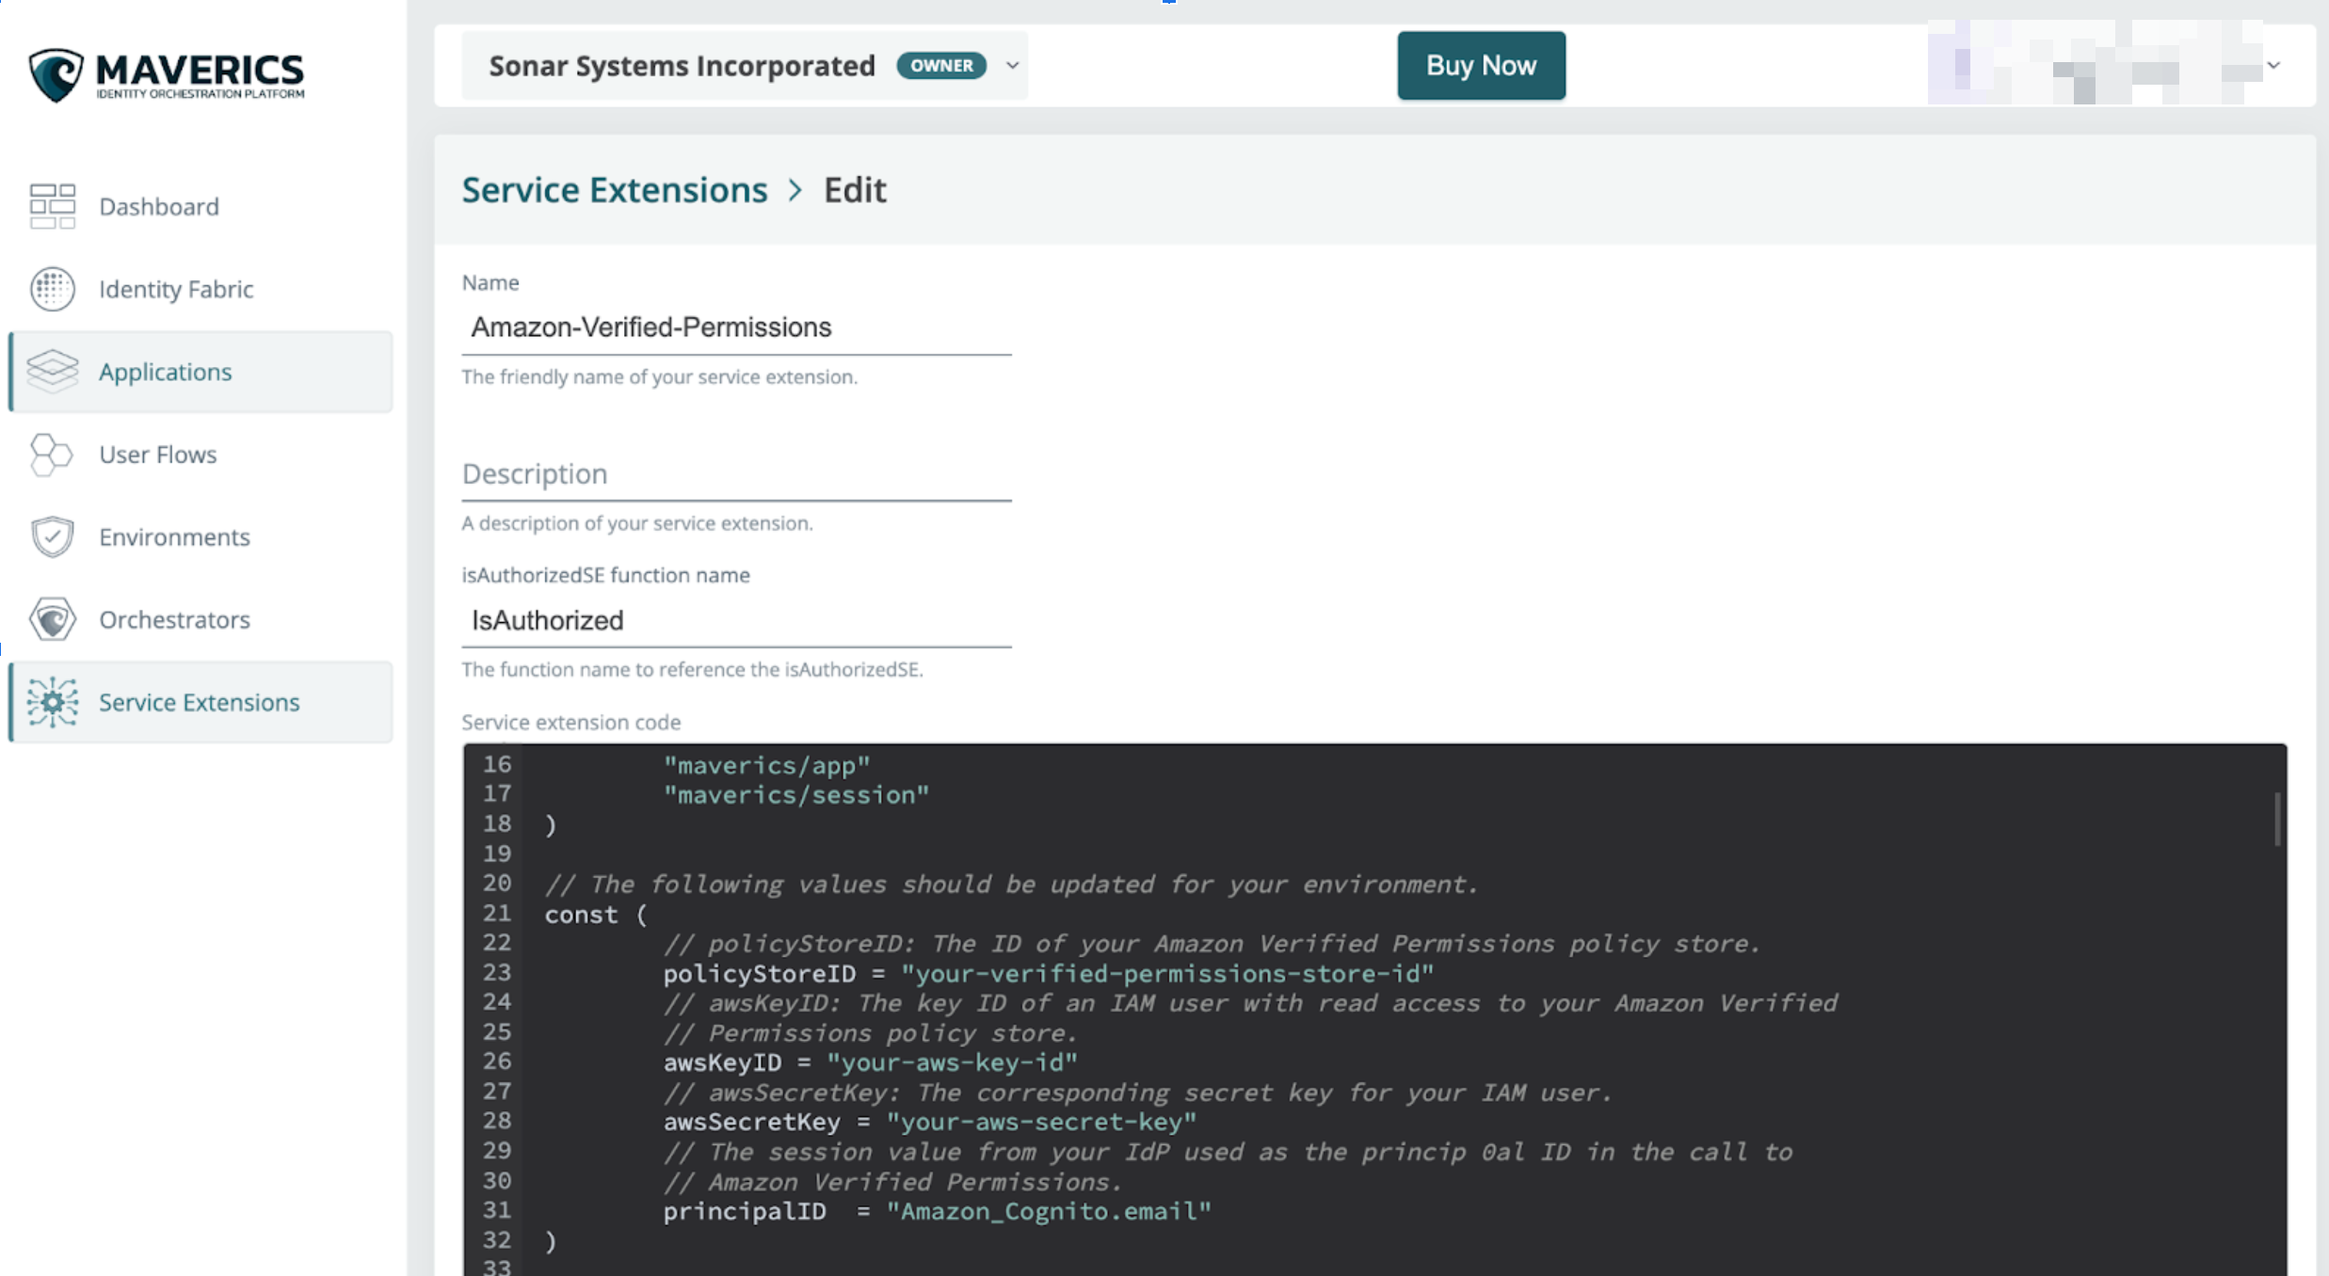
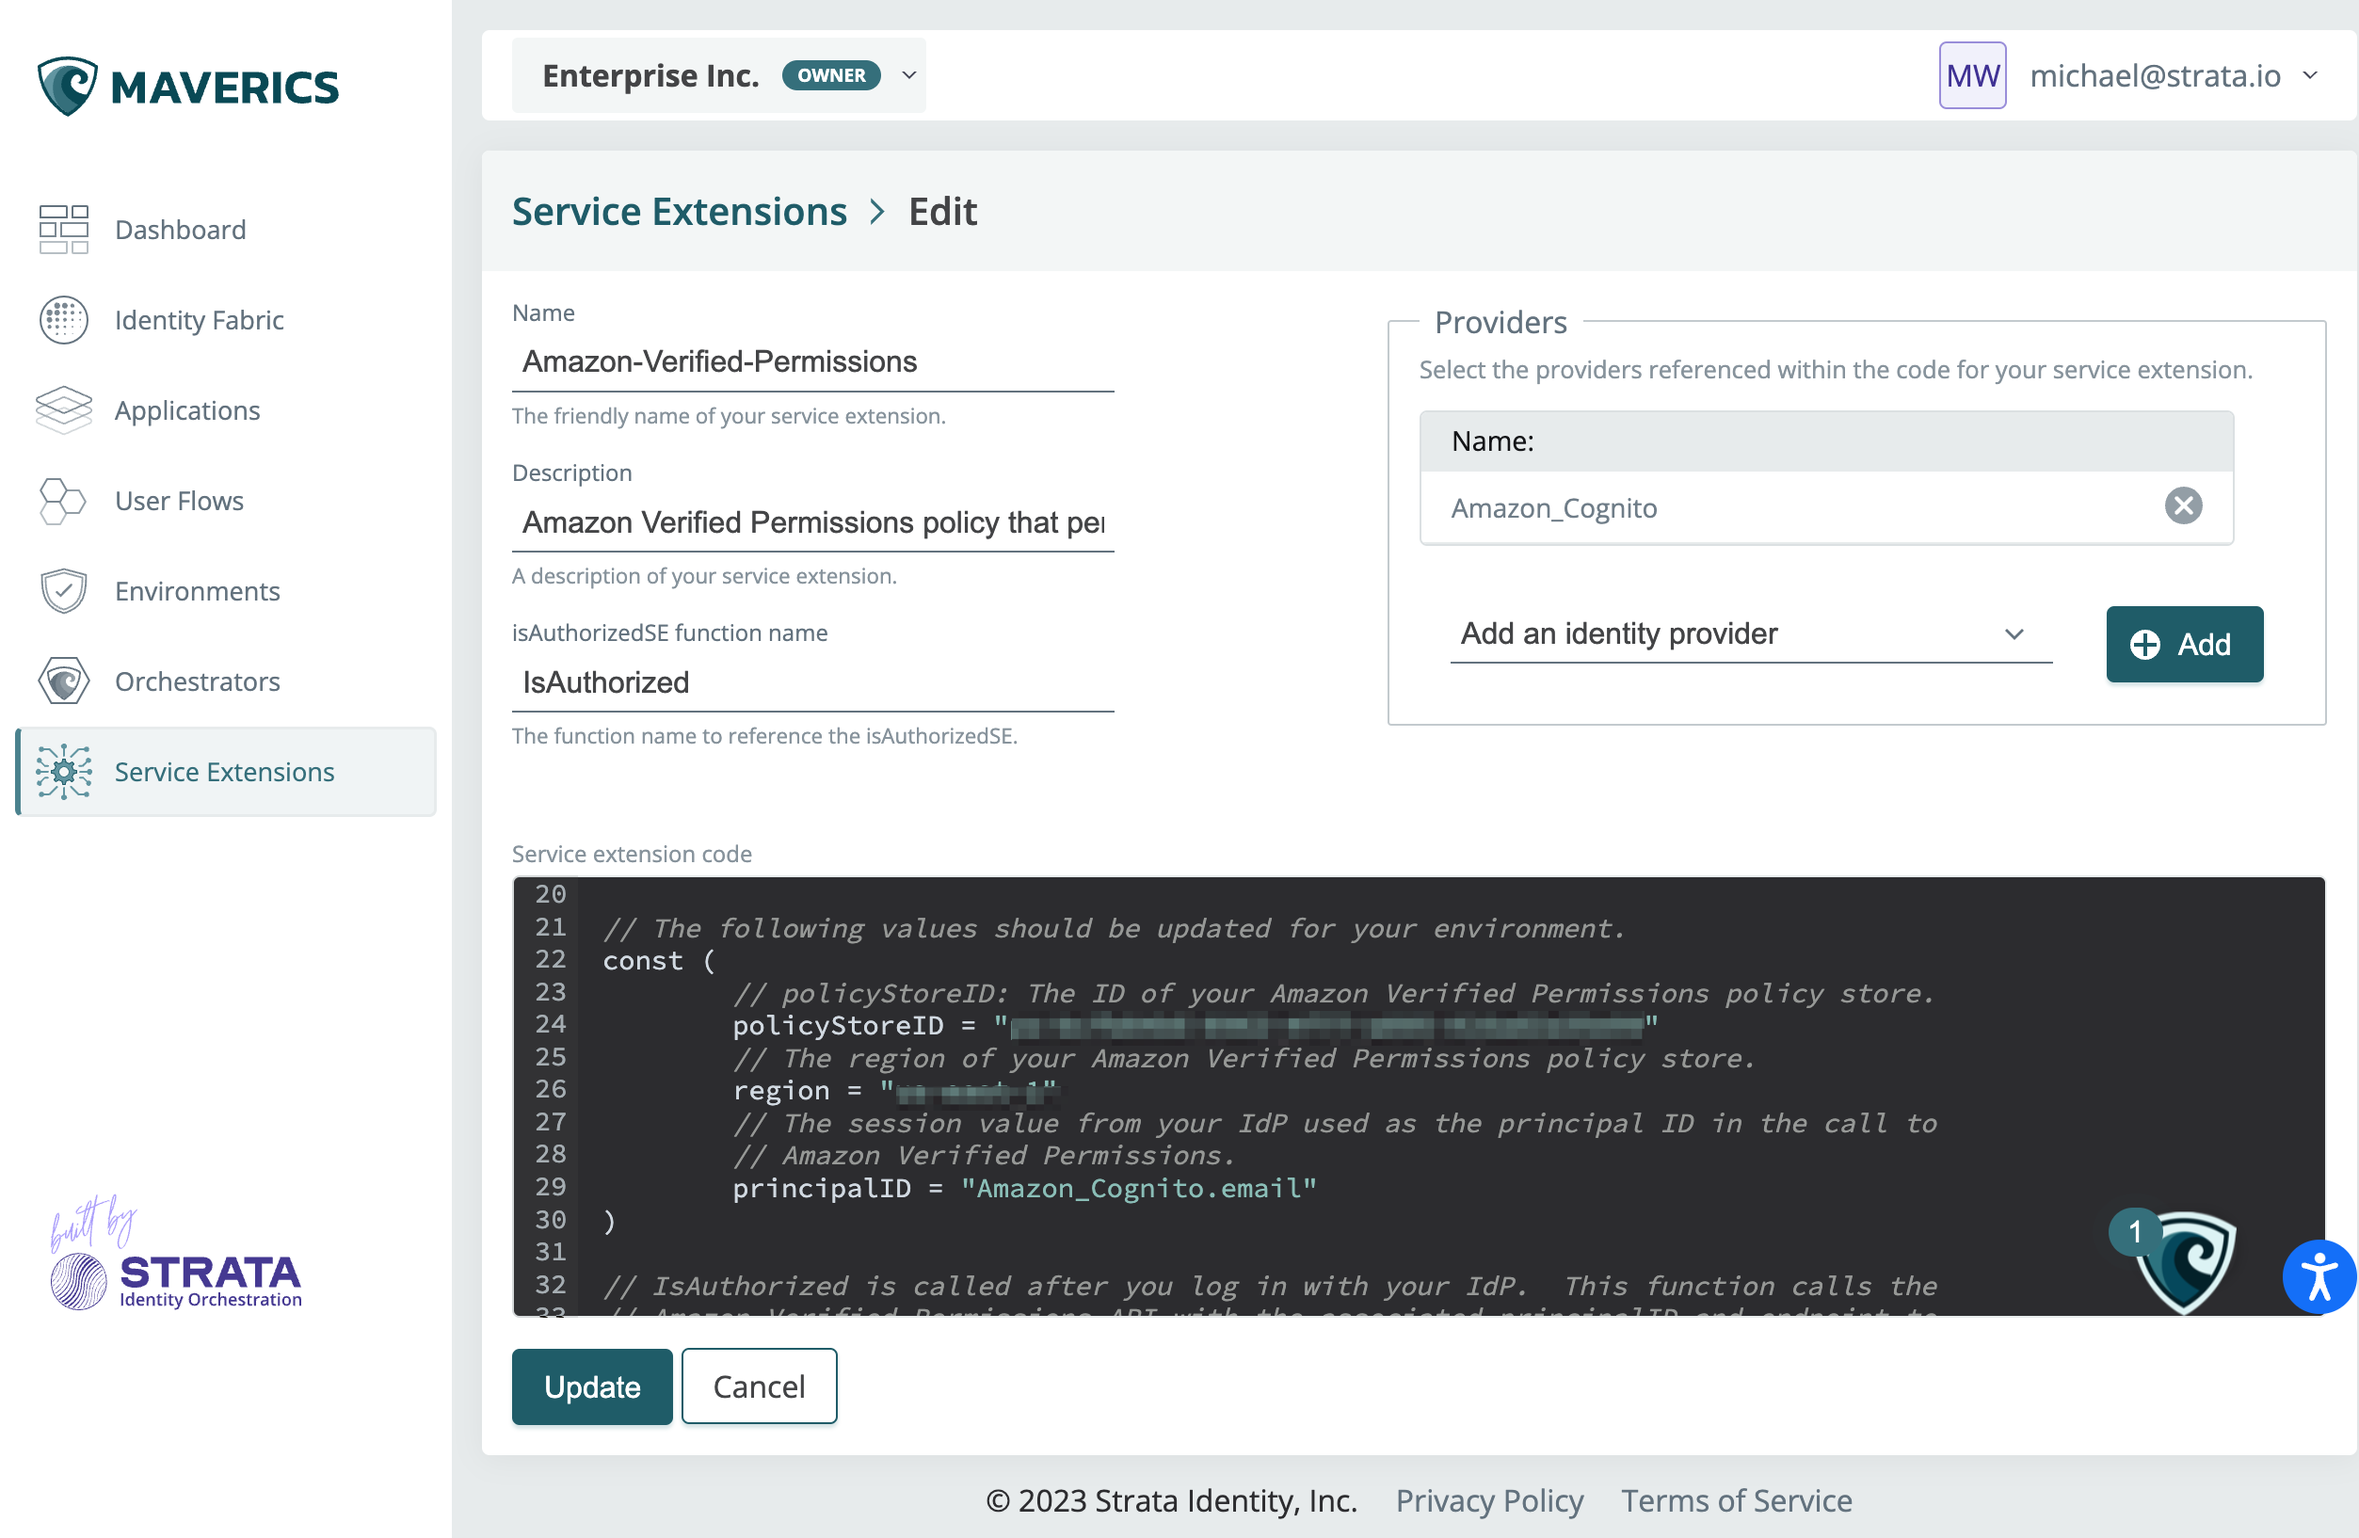
Update env and readme (#19)
* Update maverics.env

* Updated readme text and screenshots maverics.env

* Format edits

* Fixed headers

* updated credentials section

* Quick grammar edits

* Update README.md

Removed obsolete fields

---------

diff --git a/amazon-verfied-permissions/README.md b/amazon-verfied-permissions/README.md
@@ -8,7 +8,7 @@ In this this repository you will find:
 
 * [Amazon_Recipe.json](https://github.com/strata-io/strata-service-extension-examples/blob/main/amazon-verfied-permissions/Amazon_Recipe.json): The custom configuration that will be copied to Maverics.
 * [amazon-verified-permissions.go](https://github.com/strata-io/strata-service-extension-examples/blob/main/amazon-verfied-permissions/amazon-verified-permissions.go): The code for the service extension that will connect your user flow to your Amazon Verified Permissions policy.
-* A local environment configuration and self signed keys to run an Orchestrator:
+* A local environment configuration and self signed keys to run an orchestrator:
   * [maverics.env](https://github.com/strata-io/strata-service-extension-examples/blob/main/amazon-verfied-permissions/maverics.env)
   * [localhost.crt](https://github.com/strata-io/strata-service-extension-examples/blob/main/amazon-verfied-permissions/localhost.crt)
   * [localhost.key](https://github.com/strata-io/strata-service-extension-examples/blob/main/amazon-verfied-permissions/localhost.key)
@@ -68,7 +68,7 @@ When setting up the user pool, we recommend leaving all of the options at their 
 6. Go back to the user pool page. In the **Users** section, click **Create user** and follow the instructions.
 7. Make a note of the email address you used for the username, as this will be the user that is granted permissions by the Amazon Verified Permissions policy in the next section.
 
-### Configure Maverics to use your Amazon Cognito User Pool as the IDP
+## Configure Maverics to use your Amazon Cognito User Pool as the IDP
 
 Return to Maverics. Click [Identity fabric](https://maverics.strata.io/identity_fabric_components) in the left navigation, and select Amazon_Cognito.
 
@@ -107,11 +107,48 @@ permit (
 
 ![Amazon Verified Permissions Policy Store ID](images/policy-store-id.png)
 
-## Create an AWS IAM principal for Maverics service extension
+## Configure the service extension in Maverics
 
-TODO: replace this section with cross-account roles
+In these steps we will use a Maverics service extension to call Amazon Verified Permissions to enforce the example Cedar policy.
 
-Let's create an IAM policy that will allow Maverics to use Amazon Verified Permissions for authorization.
+1. In Maverics, go to the [Service Extensions page](https://maverics.strata.io/service_extensions) from the left navigation in Maverics, and select **Authorization Service Extension**.
+2. Enter the name, e.g., `Amazon-Verified-Permissions`, and click **Create**.
+3. When you click Create, the service extension code box appears. Paste the code copied from the [amazon-verified-permissions.go](https://github.com/strata-io/strata-service-extension-examples/blob/main/amazon-verfied-permissions/amazon-verified-permissions.go) file.
+4. Follow the instructions in the code to replace:
+
+* `policyStoreID` - ID of your Amazon Verified Permissions Store
+* `region` - the region where your Amazon Verified Permissions policy store is located
+
+![Amazon Verified Permissions service extension](images/service-extension.png)
+
+5. Let's associate this Service Extension with the Amazon_Cognito identity fabric. At the top right section of the screen under Providers, select your Amazon_Cognito identity provider instance and click **Add**.
+6. Click **Update** to save your service extension.
+
+## Update the user flow access policy to use Amazon Verified Permissions
+
+From here, you can now complete the setup of your app's user flow.
+
+1. Go to the User flows page from the left navigation.
+2. Click **Sonar flow**, and scroll down to the **Add access control policy** section.
+3. Click **Resource location: /** to edit the root resource policy.
+   ![Acces Control Policy](images/access-control-policy.png)
+4. You will then be prompted to configure access control. Under Access Controls, select **Use service extension: Amazon Verified Permissions policy**.
+5. Click **Update**, then click **Back** to return to the Sonar Flow.
+6. In the Latest Revision section, the indicator should notify you that your user flow has been updated. Click **Save Revision**.
+
+## Create a local environment for testing
+
+![Maverics Cloud Model](images/cloud-model.png)
+
+Environments enable a hybrid air gap approach where there is no dependency between your own environments, applications, and identity services with Maverics.
+
+With Maverics as your control plane, you will deploy a signed config to a cloud storage provider, and configure the orchestrators running in your environment to remotely read the config from the container.
+
+To publish the Sonar user flow to an orchestrator and test it, we need a local environment. This includes permissions to use your Verified Permissions policy, a public key pairing, and a configuration to connect an orchestrator.  Finally, to test the user flow you will run the test app Sonar as a Docker container.
+
+## Set permissions to enable use of your Verified Permissions policies
+
+The orchestrator supports defining an AWS credential as an environment variable. In this local scenario, we will create a policy and an IAM principal user's credentials for the orchestrator to use. In a production scenario, your environment (for example, in EC2) can turn these credentials into temporary credentials.
 
 1. Go to **Identity and Access Management (IAM)** within your AWS console.
 2. Under Access management, go to **Policies**.
@@ -150,53 +187,11 @@ Next, let's create an IAM principal to be used by Maverics. Refer to the [create
 9. Click **Security credentials**.
 10. Scroll down to Access keys and click **Create access key**.
 11. Select **Application running outside AWS** and click **Next**.
-12. You can set a description tag or leave it blank and click **Create access key**.
-13. On the Retrieve access keys page, copy the **Access key** and **Secret access key**, and keep them in a safe place. Alternatively, you can download the .csv file. These will be used in the service extension to access Amazon Verified Permissions.
+12. You can set a description tag or leave it blank, and click **Create access key**.
+13. On the Retrieve access keys page, copy the **Access key** and **Secret access key**, and keep them in a safe place. Alternatively, you can download the .csv file. These will be used in the orchestrator environment variables to access Amazon Verified Permissions.
 14. Click **Done**.
 
-## Configure the service extension in Maverics
-
-In these steps we will use a Maverics service extension to call Amazon Verified Permissions to enforce the example Cedar policy.
-
-1. In Maverics, go to the [Service Extensions page](https://maverics.strata.io/service_extensions) from the left navigation in Maverics, and select **Authorization Service Extension**.
-2. Enter the name, e.g., `Amazon-Verified-Permissions`, and click **Create**.
-3. When you click Create, the service extension code box appears. Paste the code copied from the [amazon-verified-permissions.go](https://github.com/strata-io/strata-service-extension-examples/blob/main/amazon-verfied-permissions/amazon-verified-permissions.go) file.
-4. Follow the instructions in the code to replace:
-
-* `policyStoreID` - ID of your Amazon Verified Permissions Store
-* `region` - the region where your Amazon Verified Permissions policy store is located
-* `awsKeyID` - the ID of an IAM user with read access to your Amazon Verified Permissions Policy
-* `awsSecretKey` - the corresponding secret key for your IAM user
-
-TODO: replace this screenshot when cross-account roles are available
-![Amazon Verified Permissions service extension](images/service-extension.png)
-
-5. Let's associate this Service Extension with the Amazon_Cognito identity fabric. At the top right section of the screen under Providers, select your Amazon_Cognito identity provider instance and click **Add**.
-6. Click **Update** to save your service extension.
-
-## Update the user flow access policy to use Amazon Verified Permissions
-
-From here, you can now complete the setup of your app's user flow.
-
-1. Go to the User flows page from the left navigation.
-2. Click **Sonar flow**, and scroll down to the **Add access control policy** section.
-3. Click **Resource location: /** to edit the root resource policy.
-   ![Acces Control Policy](images/access-control-policy.png)
-4. You will then be prompted to configure access control. Under Access Controls, select **Use service extension: Amazon Verified Permissions policy**.
-5. Click **Update**, then click **Back** to return to the Sonar Flow.
-6. In the Latest Revision section, the indicator should notify you that your user flow has been updated. Click **Save Revision**.
-
-## Create a local environment for testing
-
-![Maverics Cloud Model](images/cloud-model.png)
-
-Environments enable a hybrid air gap approach where there is no dependency between your own environments, applications, and identity services with Maverics.
-
-With Maverics as your control plane, you deploy signed config to a cloud storage provider and configure orchestrators running in your environment to remotely read that from the container.
-
-Maverics deploys securely signed configuration bundles that are unique to each environment. Orchestrators validate these bundles with the environment’s public key as they are read. If the validation fails, the orchestrator will not consume it. This ensures that the configuration has not been tampered with by bad actors.
-
-In this section, we will create a local environment, get the public key, and configure an orchestrator that can validate the signature of any configuration deployed to this environment. This will enable us to publish the Sonar user flow to an orchestrator. Finally, to test the user flow you will run Sonar as a Docker container.
+## Create a local environment
 
 1. From the sidebar, go to [Environments](https://maverics.strata.io/environments) and click the **+ icon** next to **Local**.
 2. Configure the following:
@@ -214,7 +209,7 @@ To continue this setup, you will need to download the following files to a direc
   * [**localhost.key**](https://github.com/strata-io/strata-service-extension-examples/blob/main/amazon-verfied-permissions/localhost.key)
 
 1. On the [Environments page](https://maverics.strata.io/environments), click the Local environment you created.
-2. Download the orchestrator appropriate for your operating system from the **Download Orchestrator** section. Save this file to your local working directory, and [follow our instructions](https://docs.strata.io/set-up-maverics/configure-orchestrators) to install based on your operating system.
+2. Download the orchestrator appropriate for your operating system from the **Download orchestrator** section. Save this file to your local working directory, and [follow our instructions](https://docs.strata.io/set-up-maverics/configure-orchestrators) to install based on your operating system.
 3. Additionally, download the public key .pem file for your local environment from the section labeled **Download Public Key.** Save this to your local working directory.
 4. Open the maverics.env file you downloaded earlier.
 
@@ -226,6 +221,8 @@ export MAVERICS_HTTP_ADDRESS=":443"
 export MAVERICS_TLS_SERVER_CERT_FILE="./localhost.crt"
 export MAVERICS_TLS_SERVER_KEY_FILE="./localhost.key"
 export MAVERICS_BUNDLE_PUBLIC_KEY_FILE=./local-environment_public_key.pem
+export AWS_ACCESS_KEY_ID=
+export AWS_SECRET_ACCESS_KEY=
 ```
 
 This environment file configures the following settings:
@@ -237,10 +234,14 @@ This environment file configures the following settings:
 * `MAVERICS_TLS_SERVER_CERT_FILE`: the path to the cert file
 * `MAVERICS_TLS_SERVER_KEY_FILE`: the path to the TLS key file
 * `MAVERICS_BUNDLE_PUBLIC_KEY_FILE`: the working directory path to the .pem-encoded key file that supports the configuration bundle signature verification
+* `AWS_ACCESS_KEY_ID`: the IAM user principal to enable orchestrators running in your environment  to use your Verified Permissions policy
+* `AWS_SECRET_ACCESS_KEY`:the IAM user principal's secret access key
 
 5. Update the `MAVERICS_BUNDLE_PUBLIC_KEY_FILE=` value to the file name of the .pem file you downloaded and save the .env file.
 
-The Orchestrator instance will then attempt to read the configuration from your local storage, but it will fail until you have deployed the Orchestrator in the next section.
+The orchestrator instance will then attempt to read the configuration from your local storage, but it will fail until you have deployed the orchestrator in the next section.
+
+6. Update the `AWS_ACCESS_KEY_ID` and `AWS_SECRET_ACCESS_KEY` with the IAM Principal credentials created from the previous section.
 
 ## Install the Sonar demo app
 
@@ -275,11 +276,13 @@ source /path/to/your/working/directory/maverics.env && ./maverics_darwin_amd64 -
 
 Testing your user flow ensures that Maverics is working as expected and has passed through the correct headers. You can test your user flow by logging into the Sonar app.
 
-1. Open a browser window to access the Sonar app at <https://localhost>
+1. Open a browser window to access the Sonar app at [https://localhost](https://localhost)
 2. Login your test user username and password
-3. This user should be allowed.
+3. This user should be permitted to access the resource.
+   ![Sonar user permitted](images/sonar-permit.png)
 4. Go to the Amazon Verified Permissions policy page and change the policy from `permit` to `forbid` and save the policy.
 5. Open an incognito browser window and repeat steps 1 and 2.
+   ![Sonar user forbidden](images/sonar-forbid.png)
 6. The user should now be denied now that the policy has been changed.
 
 To see this in action and for instructions on how to test your user flows, watch our [demonstration video](https://www.youtube.com/watch?v=RMGmENc3TGU) of the complete app modernization process. For more detailed information on setting up Maverics, view our documentation at [docs.strata.io](https://docs.strata.io).
